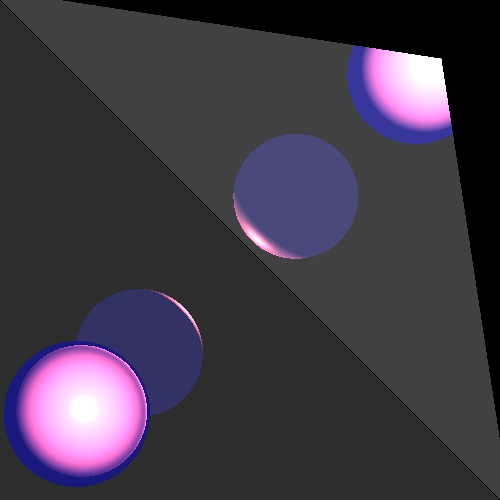
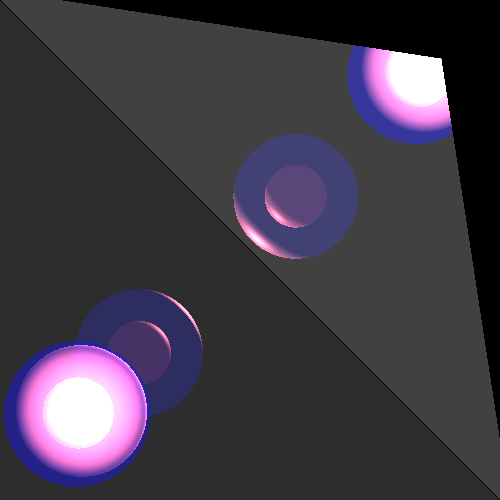
c

diff --git a/src/renderer/RayTracerBasic.java b/src/renderer/RayTracerBasic.java
@@ -59,10 +59,24 @@ public class RayTracerBasic extends RayTracerBase{
 		return true;
 	}
 	
-	
+	private double transparency(LightSource light, Vector l, Vector n, GeoPoint geopoint) {
+		Vector lightDirection = l.scale(-1); // from point to light source
+		Ray lightRay = new Ray(geopoint.point, lightDirection, n);
+		double lightDistance = light.getDistance(geopoint.point);
+		var intersections = scene.geometries.findGeoIntersections(lightRay);
+		if (intersections == null) return 1.0;
+		double ktr = 1.0;
+		for (GeoPoint gp : intersections) {
+			if (alignZero(gp.point.distance(geopoint.point) - lightDistance) <= 0) {
+				ktr *= gp.geometry.getMaterial().kT;
+				if (ktr < MIN_CALC_COLOR_K) return 0.0;
+			}
+		}
+		return ktr;
+	}
 	
 	private Color calcColor(GeoPoint point3d, Ray ray, int level, double k) {
-		Color color = point3d.geometry.getEmission().add(calcLocalEffects(point3d, ray));
+		Color color = point3d.geometry.getEmission().add(calcLocalEffects(point3d, ray, k));
 		if (level == 1 || point3d == null)
 			return color;
 		return color.add(calcGlobalEffects(point3d, ray, level, k));
@@ -73,7 +87,7 @@ public class RayTracerBasic extends RayTracerBase{
 		.add(scene.ambientLight.getIntensity());
 	}
 	
-	private Color calcLocalEffects(GeoPoint intersection, Ray ray) {
+	private Color calcLocalEffects(GeoPoint intersection, Ray ray, double k) {
 		Vector v = ray.getDir();
 		Vector n = intersection.geometry.getNormal(intersection.point);
 		double nv = alignZero(n.dotProduct(v)); 
@@ -88,11 +102,11 @@ public class RayTracerBasic extends RayTracerBase{
 			Vector l = lightSource.getL(intersection.point);
 			double nl = alignZero(n.dotProduct(l));
 			if (nl * nv > 0) { // sign(nl) == sing(nv)
-				if (unshaded(lightSource, l, n, intersection))
-					{
-						Color lightIntensity = lightSource.getIntensity(intersection.point);
+				double ktr = transparency(lightSource, l, n, intersection);
+				if (ktr * k > MIN_CALC_COLOR_K) {
+						Color lightIntensity = lightSource.getIntensity(intersection.point).scale(ktr);;
 						color = color.add(calcDiffusive(kd, l, n, lightIntensity), calcSpecular(ks, l, n, v, nShininess, lightIntensity));
-					}
+				}
 			}
 		}
 		return color;
@@ -133,18 +147,18 @@ public class RayTracerBasic extends RayTracerBase{
 
 	private GeoPoint findClosestIntersection(Ray refractedRay) {
 		return refractedRay.findClosestGeoPoint(scene.geometries.findGeoIntersections(refractedRay));
+	
 	}
 
 	private Ray constructRefractedRay(Vector n, Point3D point, Ray ray) {
-		Ray deltaRay = new Ray(point, ray.getDir(), n);
-		Vector v = deltaRay.getDir();
+		Vector v = new Ray(point, ray.getDir(), n).getDir();
 		double cosi = v.scale(-1).dotProduct(n);
 		double cosr = n.scale(-1).dotProduct(v);
 		Vector direction;
 		if (!isZero(cosr-cosr))
 			direction = (n.scale(cosi-cosr)).subtract(v);
 		else
-			direction = v.scale(-1);
+			direction = ray.getDir();
 		Ray refractedRay = new Ray(point, direction, n);
 		return refractedRay;
 	}
